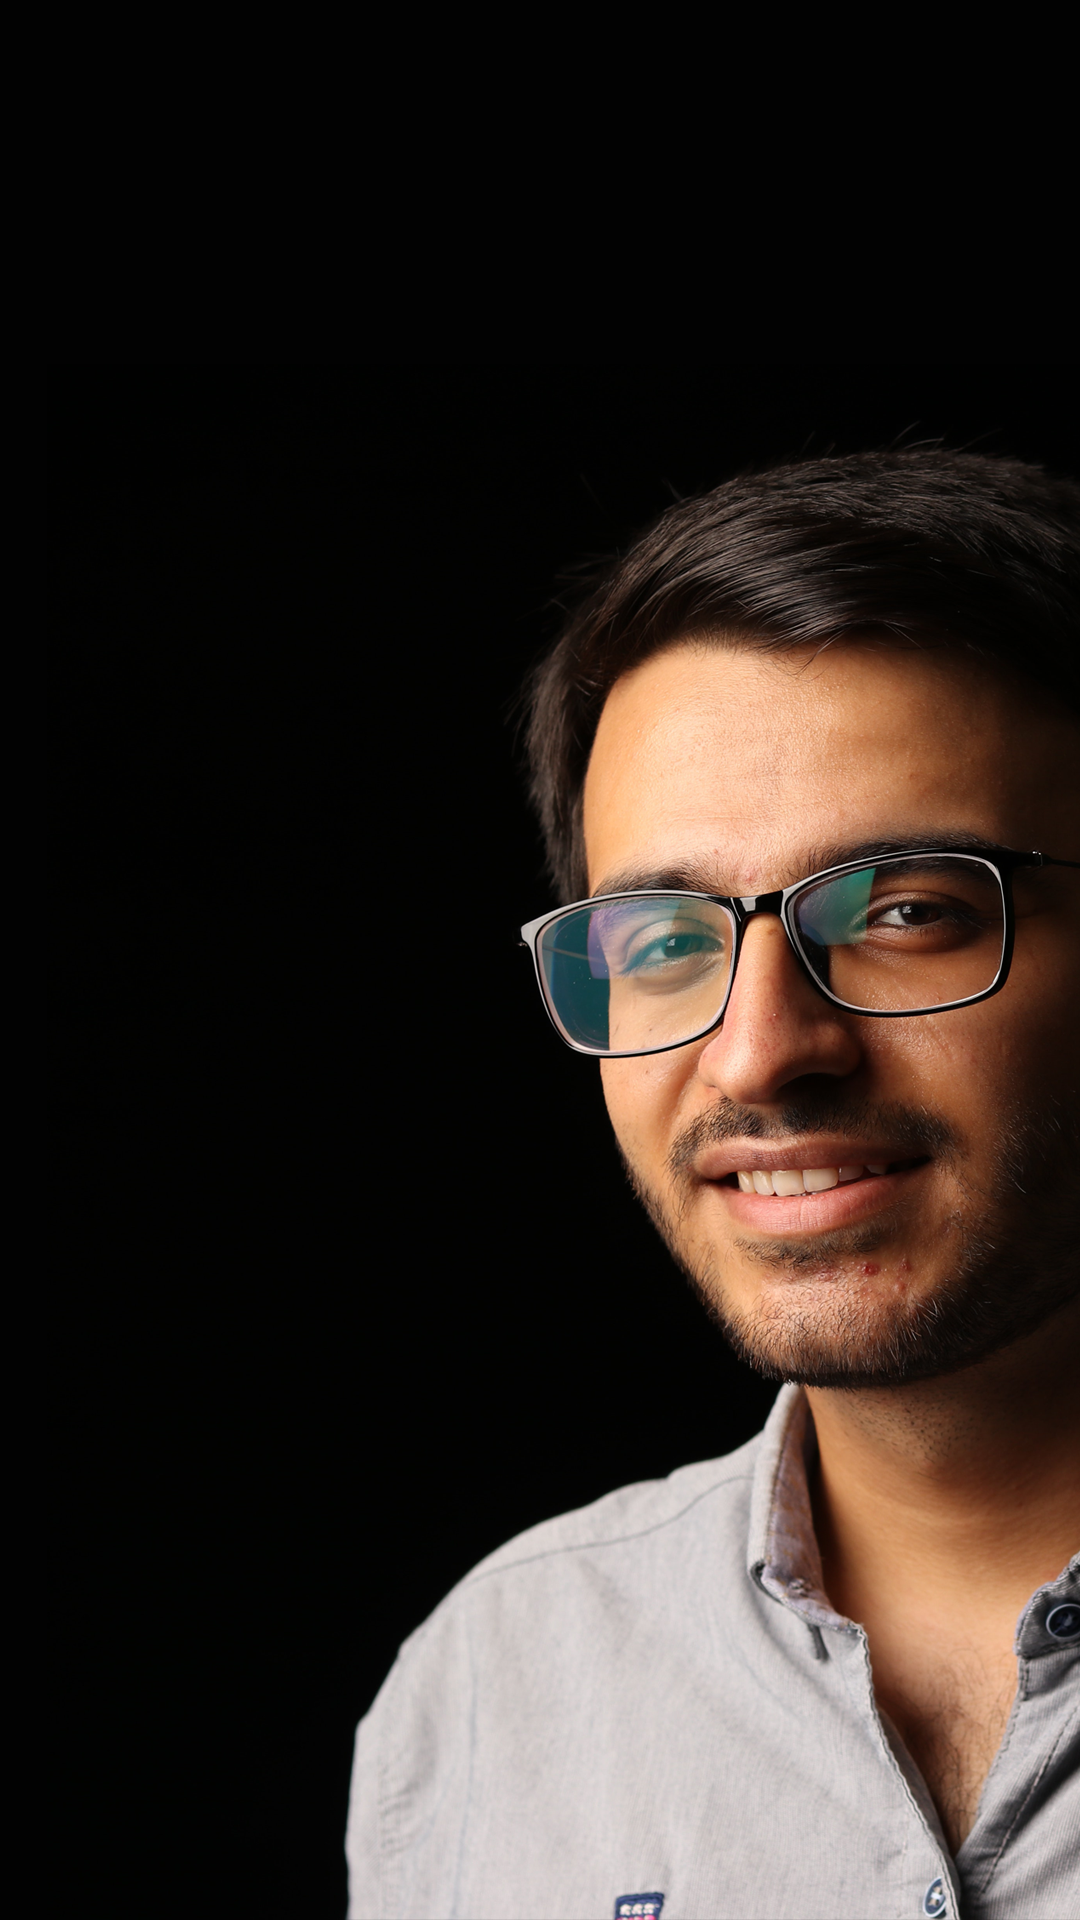
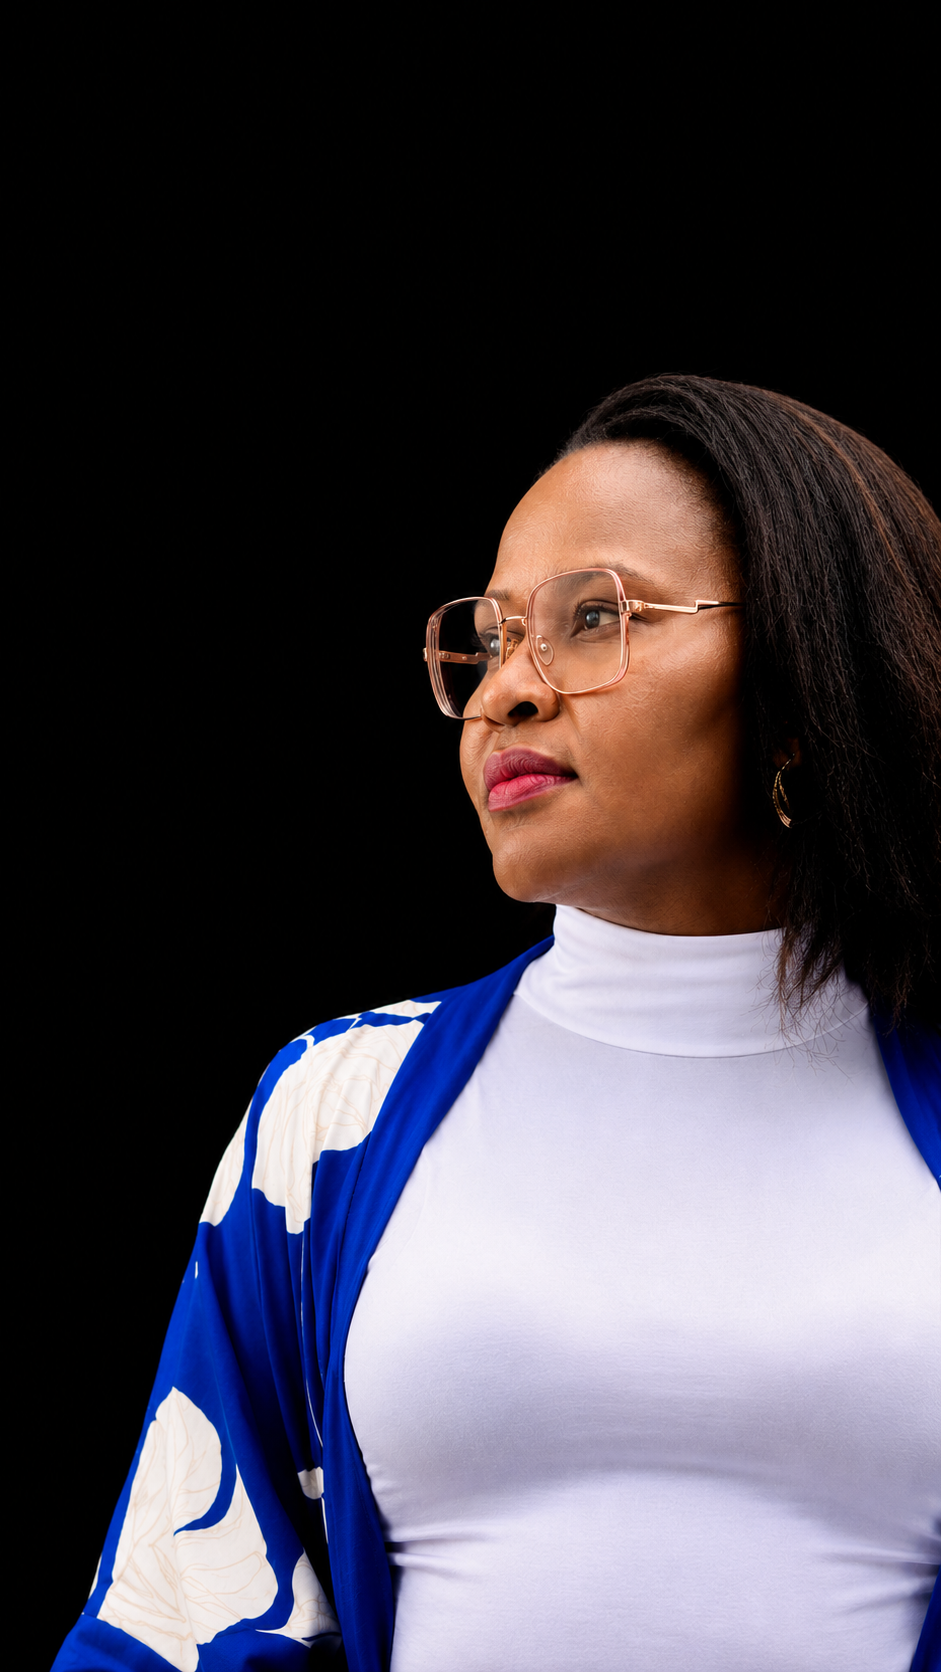
Responsive

diff --git a/style.css b/style.css
@@ -346,3 +346,45 @@ form .btn2 {
 .copyright i {
     color: #ff004f;
 }
+
+/* ----------------css for small screen---------------------------- */
+
+nav .fa-solid {
+    display: none;
+}
+
+@media only screen and (max-width: 600px) {
+    #header {
+        background-image: url(images/phone-background.png);
+    }
+    .header-text {
+        margin-top: 100%;
+        font-size: 16px;
+    }
+    .header-text h1 {
+        font-size: 30px;
+    }
+    nav .fa-solid {
+        display: block;
+        font-size: 25px;
+    }
+    nav ul {
+        background: #ff004f;
+        position: fixed;
+        top: 0;
+        right: 0;
+        width: 200px;
+        height: 100vh;
+        padding-top: 50px;
+    }
+    nav ul li {
+        display: block;
+        margin: 25px;
+    }
+    nav ul .fa-solid {
+        position: absolute;
+        top: 25px;
+        left: 25px;
+        cursor: pointer;
+    }
+}

diff --git a/index.html b/index.html
@@ -5,8 +5,8 @@
     <meta name="viewport" content="width=device-width, initial-scale=1.0">
     <title>Vathiswa Mnqojana</title>
 
-    <link rel="stylesheet" href="style.css">
     <script src="https://kit.fontawesome.com/d25cc2ca82.js" crossorigin="anonymous"></script>
+    <link rel="stylesheet" href="style.css">
 </head>
 <body>
     <div id="header">
@@ -19,7 +19,9 @@
                     <li><a href="#">Services</a></li>
                     <li><a href="#">Portfolio</a></li>
                     <li><a href="#">Contact</a></li>
+                    <i class="fa-solid fa-xmark"></i>
                 </ul>
+                <i class="fa-solid fa-bars"></i>
             </nav>
             <div class="header-text">
                 <p>Social Worker</p>